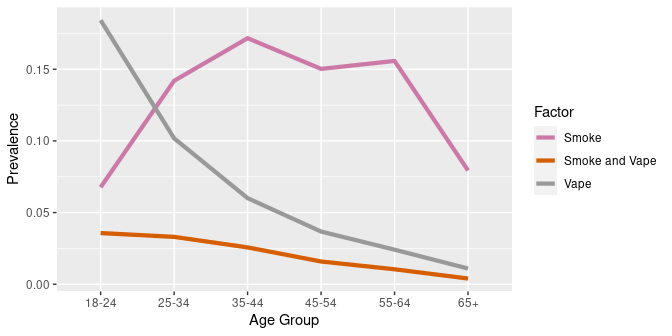
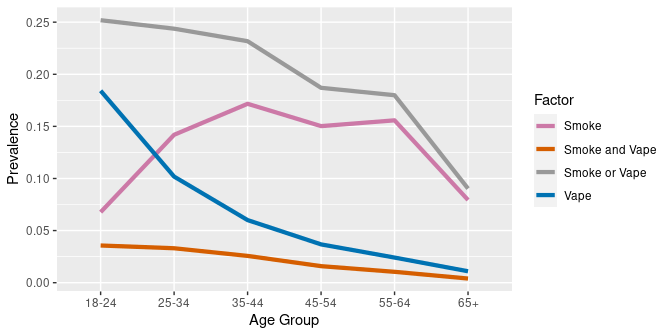
Fixed a typo.

diff --git a/sql_examples.md b/sql_examples.md
@@ -342,7 +342,7 @@ ggplot(tobacco_use, aes(x = Year, y = Prevalence,
 
 ![](sql_examples_files/figure-html/unnamed-chunk-14-1.png)<!-- -->
 
-## Smoking and Vaping in 2021
+## Smoking and Vaping by Age in 2021
 
 We will compare the proportion of smokers (`SMOKDAY2`) and e-cigarette (`ECIGNOW1`) 
 or other electronic vaping product users ("vapers"), and those who are both, by 
@@ -365,7 +365,7 @@ GROUP BY _AGE_G ORDER BY _AGE_G;'
 rs <- dbGetQuery(con, sql)
 ```
 
-## Smoking and Vaping in 2021
+## Smoking and Vaping by Age in 2021
 
 Age group (`_AGE_G`) is a 6-level ordinal variable. Apply labels with `factor()`. 
 
@@ -378,13 +378,14 @@ age.labels <- c('18-24', '25-34', '35-44', '45-54', '55-64', '65+')
 consumers <- rs %>% group_by(`Age Group`) %>%
   mutate(`Smoke` = Smokers/Respondents,
          `Vape` = Vapers/Respondents,
+         `Smoke or Vape` = sum(Smokers, Vapers, na.rm = TRUE)/Respondents,
          `Smoke and Vape` = SmokeAndVapers/Respondents,
          `Age Group` = factor(`Age Group`, levels = 1:6, labels = age.labels)) %>%
-    pivot_longer(c(`Smoke`, `Vape`, `Smoke and Vape`), 
+    pivot_longer(c(`Smoke`, `Vape`, `Smoke or Vape`, `Smoke and Vape`), 
                  names_to = "Factor", values_to = "Prevalence")
 ```
 
-## Smoking and Vaping in 2021
+## Smoking and Vaping by Age in 2021
 
 
 ```r
@@ -556,7 +557,7 @@ ORDER BY IYEAR, _EDUCAG;"
 consumers <- dbGetQuery(con, sql) %>% 
   group_by(Year, Education) %>% 
   mutate(Smoking = Smokers/sum(Smokers, NonSmokers, na.rm = TRUE), 
-         Drinking = Drinkers/sum(NonDrinkers, NonDrinkers, na.rm = TRUE),
+         Drinking = Drinkers/sum(Drinkers, NonDrinkers, na.rm = TRUE),
          Education = factor(Education, levels = 1:4, labels = edu.labels)) %>%
   select(Year, Education, Smoking, Drinking) %>%
   pivot_longer(c(Smoking, Drinking), 
